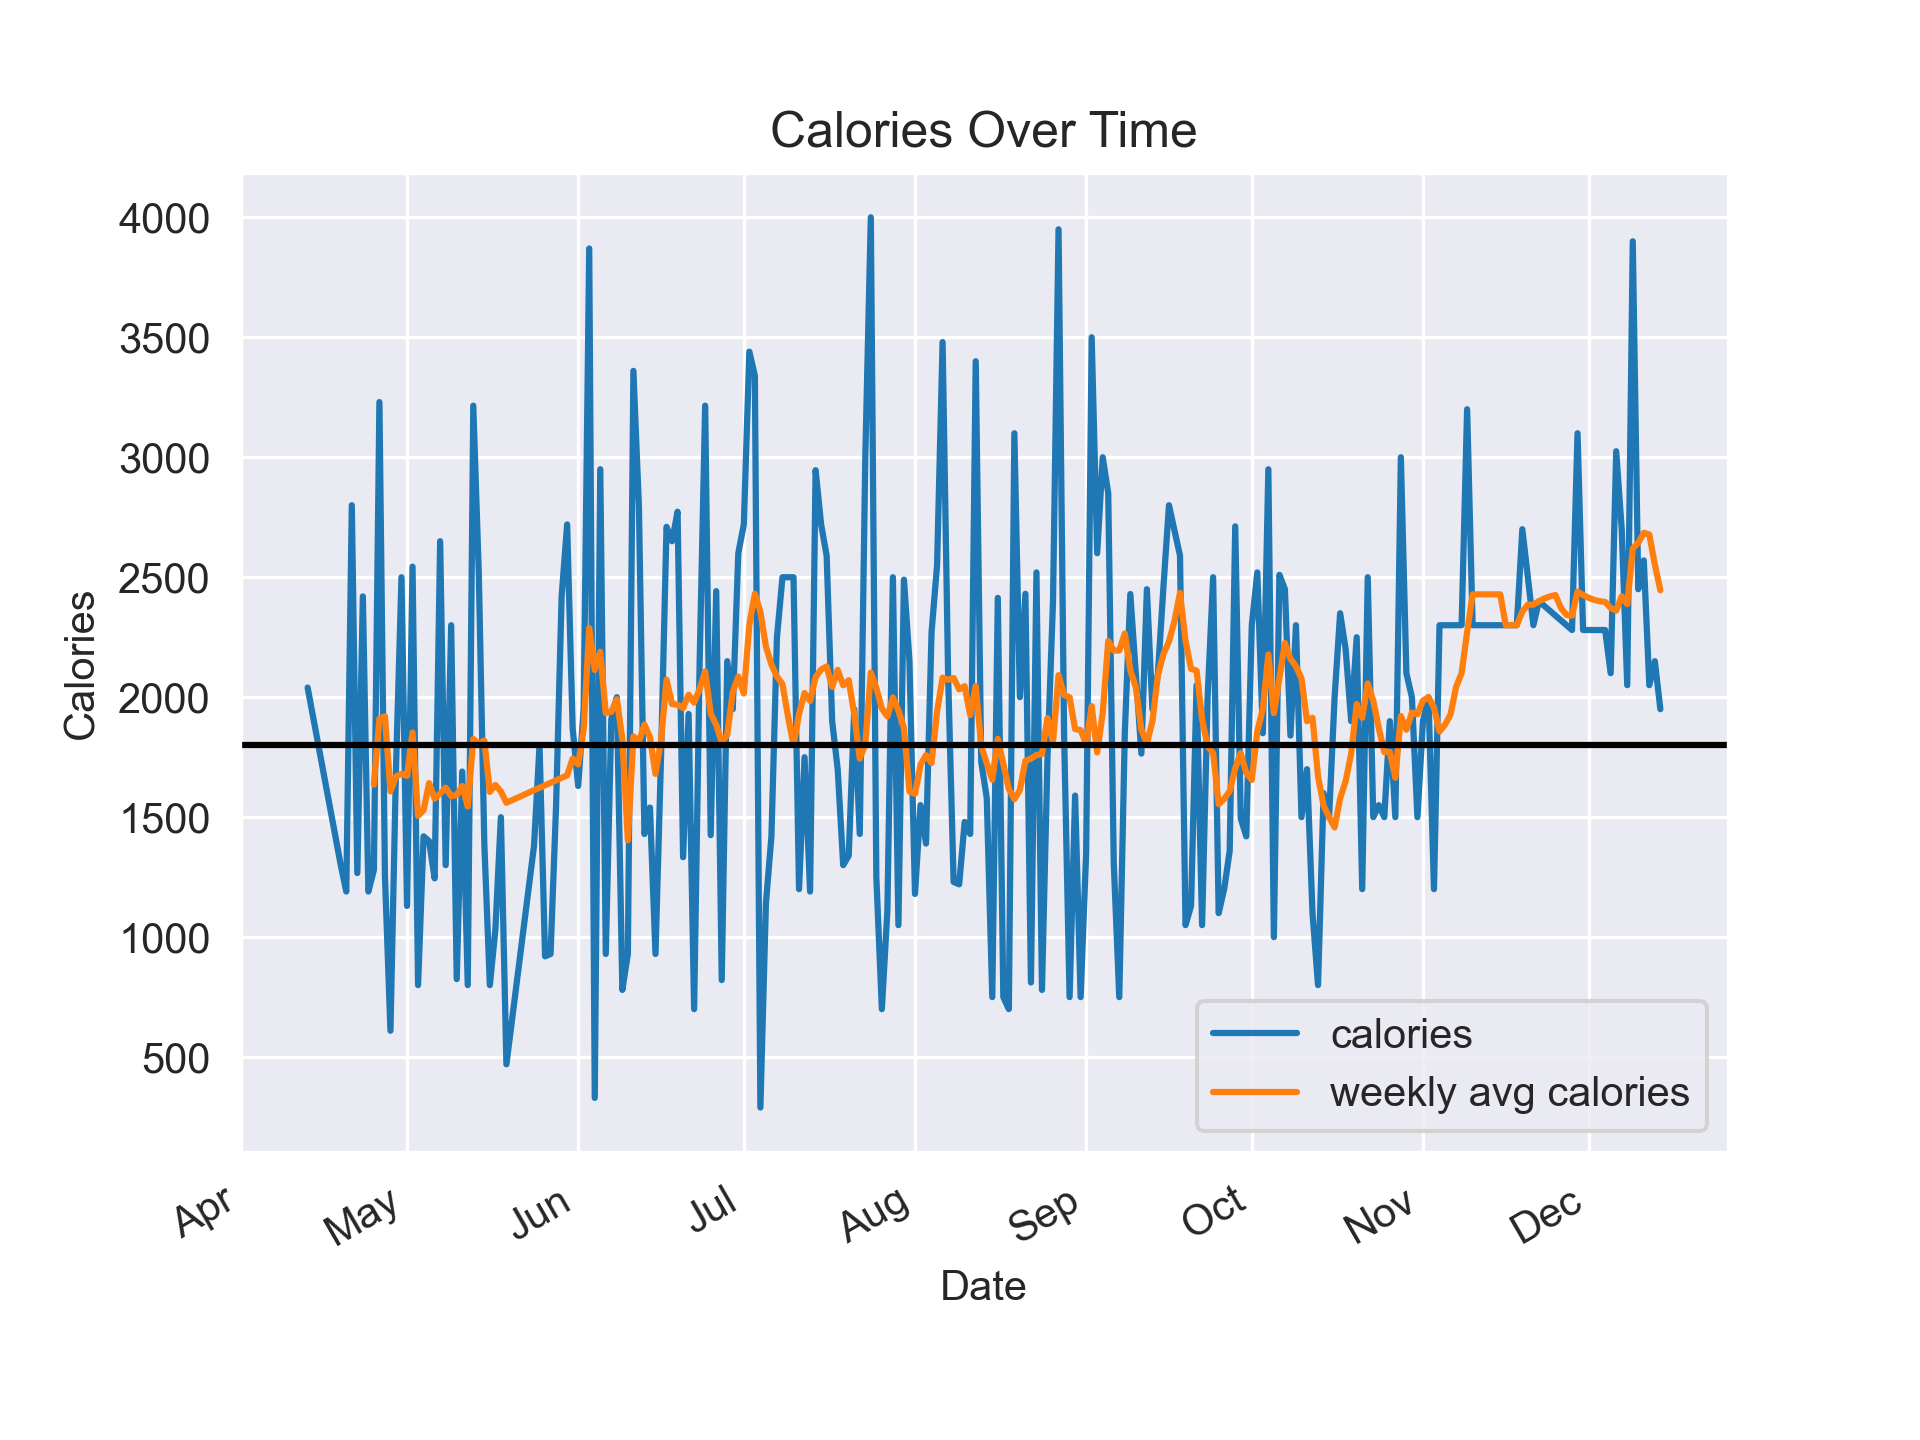
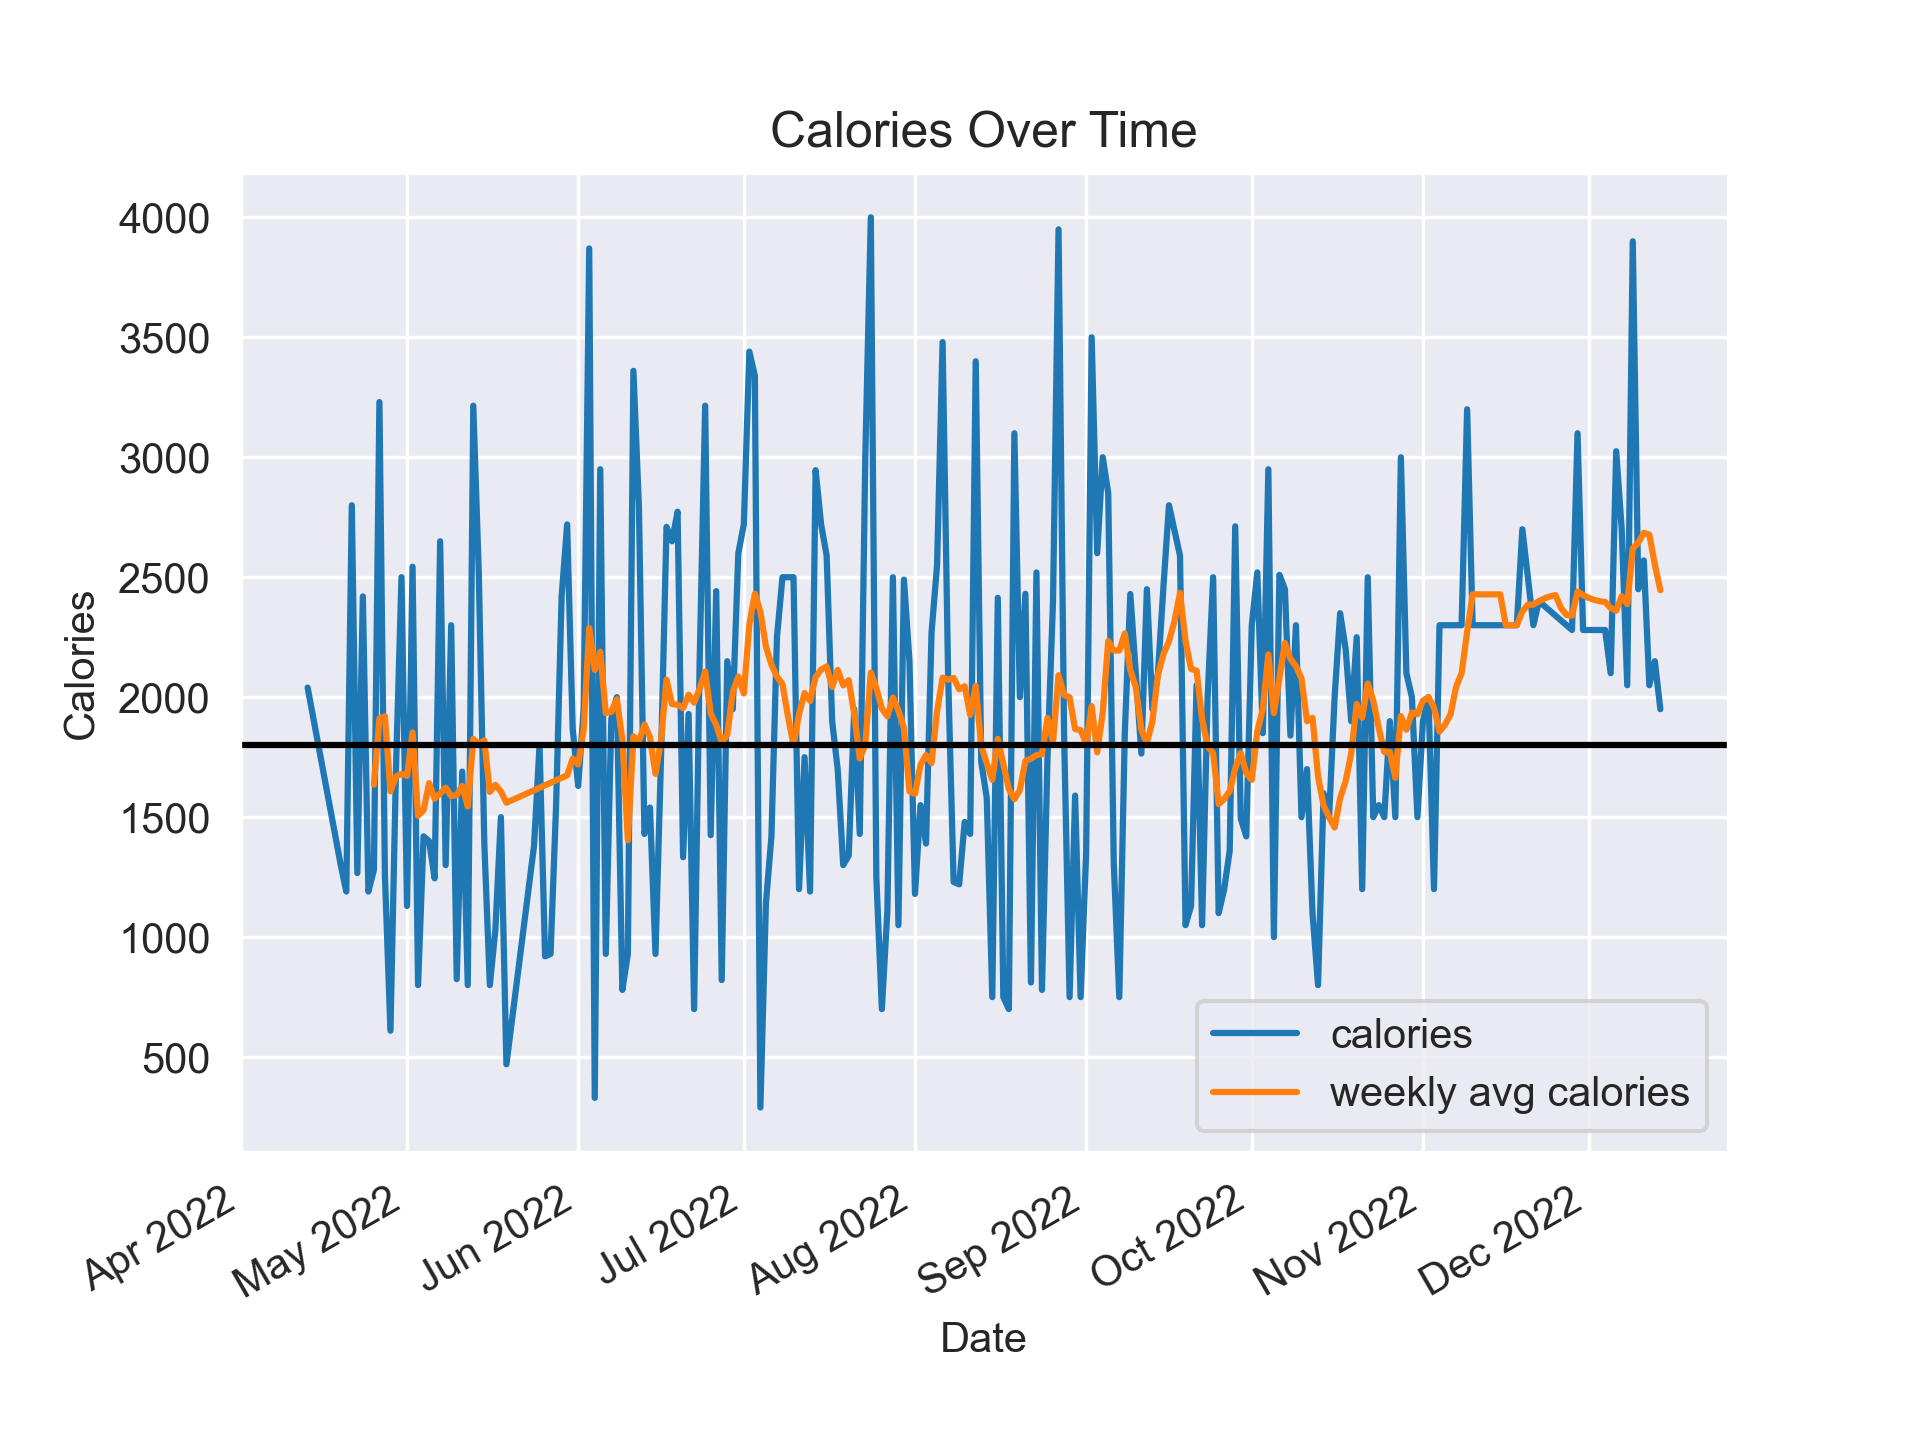
update

diff --git a/visualizations.py b/visualizations.py
@@ -15,7 +15,6 @@ from datetime import date
 import gspread
 from oauth2client.service_account import ServiceAccountCredentials
 
-
 #Set up and conenct to API
 
 scope = ["https://spreadsheets.google.com/feeds",
@@ -86,7 +85,7 @@ ax = plt.gca()
 # Set the locator
 locator = mdates.MonthLocator()  # every month
 # Specify the format - %b gives us Jan, Feb...
-fmt = mdates.DateFormatter('%b')
+fmt = mdates.DateFormatter('%b %Y')
 
 ax.xaxis.set_major_locator(locator)
 ax.xaxis.set_major_formatter(fmt)
@@ -119,7 +118,7 @@ ax = plt.gca()
 # Set the locator
 locator = mdates.MonthLocator()  # every month
 # Specify the format - %b gives us Jan, Feb...
-fmt = mdates.DateFormatter('%b')
+fmt = mdates.DateFormatter('%b %Y')
 
 ax.xaxis.set_major_locator(locator)
 ax.xaxis.set_major_formatter(fmt)
